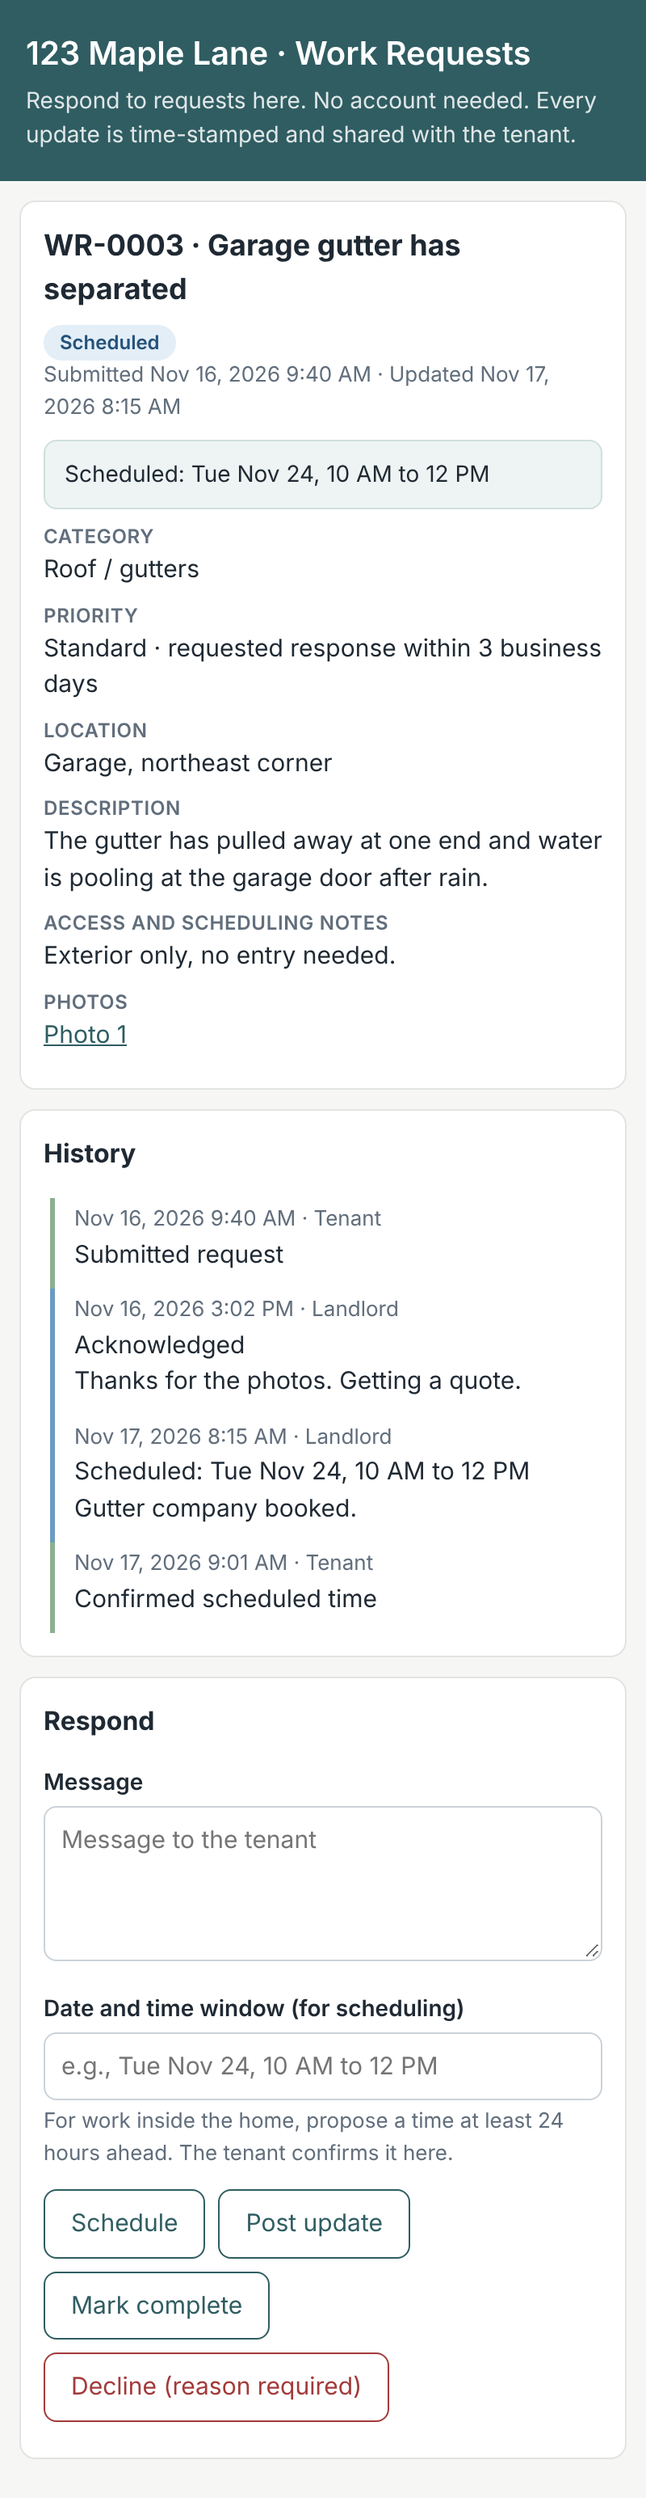
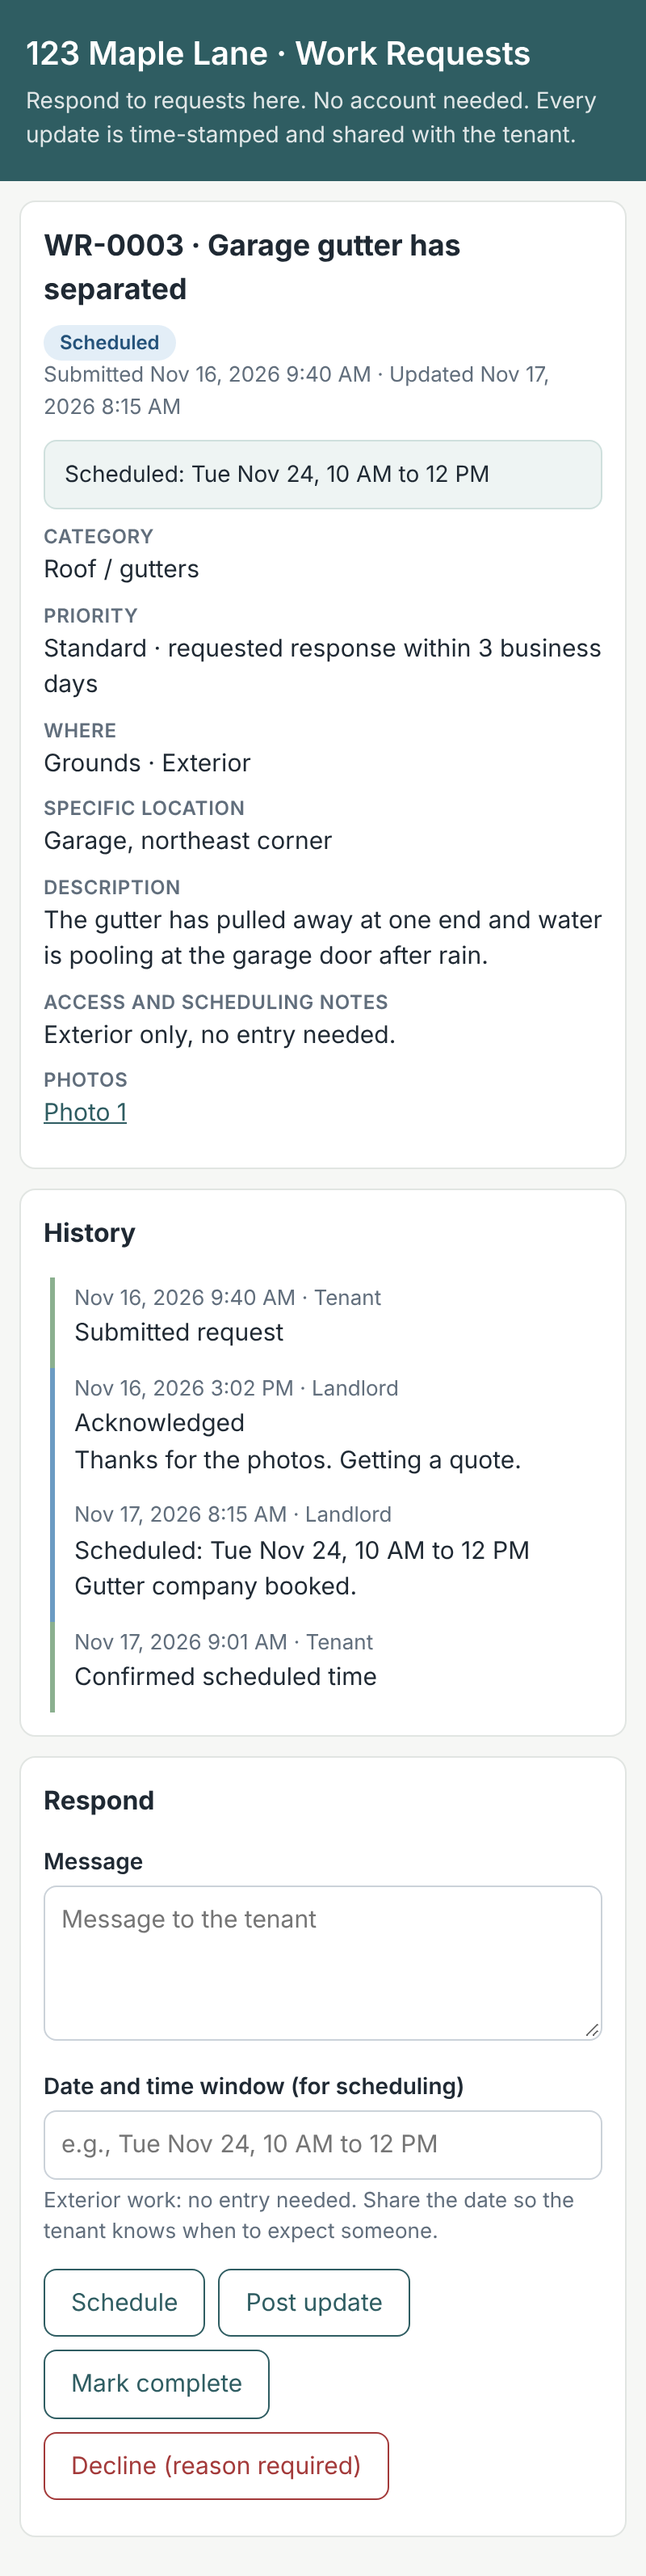
Add building and interior/exterior fields; fix category dropdown
Render form choices on the server so they work without client-side setup. Buildings are configurable on the Config tab. Landlord scheduling guidance adapts to interior or exterior work.

Claude-Session: https://claude.ai/code/session_017VoKnycgN8XbwmDMcNHVKc

diff --git a/Tenant.html b/Tenant.html
@@ -28,18 +28,42 @@
         <h2 style="margin-top:0;font-size:18px">New work request</h2>
         <label for="title">What needs attention?</label>
         <input type="text" id="title" maxlength="120" placeholder="e.g., Garage gutter has come apart">
+        <label>Where</label>
+        <div class="choices">
+          <? for (var b = 0; b < buildings.length; b++) { ?>
+            <label class="choice"><input type="radio" name="building" value="<?= buildings[b] ?>"
+              <?= b === 0 ? 'checked' : '' ?>> <?= buildings[b] ?></label>
+          <? } ?>
+        </div>
+        <div class="choices" style="margin-top:8px">
+          <? for (var a = 0; a < areas.length; a++) { ?>
+            <label class="choice"><input type="radio" name="area" value="<?= areas[a] ?>"
+              <?= a === 0 ? 'checked' : '' ?>> <?= areas[a] ?></label>
+          <? } ?>
+        </div>
+        <div class="help">Interior work needs a visit time agreed at least 24 hours ahead. Exterior work usually needs no entry.</div>
         <label for="category">Category</label>
-        <select id="category"></select>
+        <select id="category">
+          <? for (var c = 0; c < categories.length; c++) { ?>
+            <option value="<?= categories[c] ?>"><?= categories[c] ?></option>
+          <? } ?>
+        </select>
         <label>Priority</label>
-        <div id="priorities"></div>
-        <label for="location">Location</label>
+        <div>
+          <? for (var p = 0; p < priorities.length; p++) {
+               var pr = priorities[p];
+               var time = p === 0 ? responseTimes.urgent : (pr === 'Routine' ? responseTimes.routine : responseTimes.standard); ?>
+            <label class="choice block"><input type="radio" name="priority" value="<?= pr ?>"
+              <?= pr === 'Standard' ? 'checked' : '' ?>> <?= pr ?> · response <?= time ?></label>
+          <? } ?>
+        </div>
+        <label for="location">Specific location</label>
         <input type="text" id="location" maxlength="200" placeholder="e.g., Garage, northeast corner">
         <label for="description">Description</label>
         <textarea id="description" maxlength="4000" placeholder="What is happening, since when, and any safety concerns."></textarea>
         <label for="access">Access and scheduling notes</label>
         <textarea id="access" maxlength="1000" style="min-height:64px"
           placeholder="e.g., Please propose times here; exterior work needs no entry."></textarea>
-        <div class="help">Interior visits are coordinated in the tracker with at least 24 hours' notice.</div>
         <label for="photos">Photos (up to 5)</label>
         <input type="file" id="photos" accept="image/*" multiple>
         <div class="actions">
@@ -60,26 +84,10 @@
   <?!= include('Shared') ?>
   <script>
     var KEY = <?!= JSON.stringify(key).replace(/</g, '\\u003c') ?>;
-    var CATEGORIES = <?!= JSON.stringify(categories).replace(/</g, '\\u003c') ?>;
-    var PRIORITIES = <?!= JSON.stringify(priorities).replace(/</g, '\\u003c') ?>;
-    var RESPONSE = <?!= JSON.stringify(responseTimes).replace(/</g, '\\u003c') ?>;
     var requests = [];
     var filter = 'open';
 
-    function init() {
-      var cat = document.getElementById('category');
-      CATEGORIES.forEach(function (c) { cat.appendChild(el('option', { value: c, text: c })); });
-      var pr = document.getElementById('priorities');
-      PRIORITIES.forEach(function (p, i) {
-        var time = i === 0 ? RESPONSE.urgent : (p === 'Routine' ? RESPONSE.routine : RESPONSE.standard);
-        var id = 'pri' + i;
-        var input = el('input', { type: 'radio', name: 'priority', id: id, value: p });
-        if (p === 'Standard') input.checked = true;
-        pr.appendChild(el('div', { style: 'margin:4px 0' }, [input, ' ',
-          el('label', { for: id, style: 'display:inline;font-weight:400', text: p + ' · response ' + time })]));
-      });
-      load();
-    }
+    function init() { load(); }
 
     function load() {
       call('tenantList', [KEY]).then(function (r) { requests = r; renderList(); })
@@ -107,7 +115,8 @@
             el('strong', { text: r.id + ' · ' + r.title }),
             el('span', { class: statusClass(r.status), text: r.status })
           ]),
-          el('div', { class: 'muted', text: r.category + ' · ' + r.priority.split(' (')[0] +
+          el('div', { class: 'muted', text: [r.building, r.area].filter(Boolean).join(' · ') + (r.building ? ' · ' : '') +
+            r.category + ' · ' + r.priority.split(' (')[0] +
             (r.scheduledFor && r.status === 'Scheduled' ? ' · Scheduled ' + r.scheduledFor : '') +
             ' · Updated ' + r.updated })
         ]));
@@ -159,6 +168,8 @@
           title: document.getElementById('title').value,
           category: document.getElementById('category').value,
           priority: pri ? pri.value : 'Standard',
+          building: (document.querySelector('input[name=building]:checked') || {}).value || '',
+          area: (document.querySelector('input[name=area]:checked') || {}).value || '',
           location: document.getElementById('location').value,
           description: document.getElementById('description').value,
           access: document.getElementById('access').value,
@@ -204,7 +215,8 @@
         el('div', { class: 'muted', text: 'Submitted ' + r.created + ' · Updated ' + r.updated }),
         r.scheduledFor ? el('div', { class: 'notice', style: 'margin-top:10px', text: 'Scheduled: ' + r.scheduledFor }) : null,
         field('Category', r.category), field('Priority', r.priority + ' · requested response ' + r.responseTime),
-        field('Location', r.location), field('Description', r.description, true),
+        field('Where', [r.building, r.area].filter(Boolean).join(' · ')),
+        field('Specific location', r.location), field('Description', r.description, true),
         field('Access and scheduling notes', r.access, true), photosBlock(r.photos)
       ]));
       d.appendChild(el('div', { class: 'card' }, [el('h3', { style: 'margin-top:0;font-size:16px', text: 'History' }), timeline(r.log)]));

diff --git a/Landlord.html b/Landlord.html
@@ -38,7 +38,8 @@
             el('a', { href: r.link, text: r.id + ' · ' + r.title }),
             el('span', { class: statusClass(r.status), text: r.status })
           ]),
-          el('div', { class: 'muted', text: r.category + ' · ' + r.priority.split(' (')[0] + ' · Updated ' + r.updated })
+          el('div', { class: 'muted', text: [r.building, r.area].filter(Boolean).join(' · ') + (r.building ? ' · ' : '') +
+            r.category + ' · ' + r.priority.split(' (')[0] + ' · Updated ' + r.updated })
         ]));
       });
     }
@@ -53,7 +54,8 @@
         el('div', { class: 'muted', text: 'Submitted ' + r.created + ' · Updated ' + r.updated }),
         r.scheduledFor ? el('div', { class: 'notice', style: 'margin-top:10px', text: 'Scheduled: ' + r.scheduledFor }) : null,
         field('Category', r.category), field('Priority', r.priority + ' · requested response ' + r.responseTime),
-        field('Location', r.location), field('Description', r.description, true),
+        field('Where', [r.building, r.area].filter(Boolean).join(' · ')),
+        field('Specific location', r.location), field('Description', r.description, true),
         field('Access and scheduling notes', r.access, true), photosBlock(r.photos)
       ]));
       app.appendChild(el('div', { class: 'card' }, [el('h3', { style: 'margin-top:0;font-size:16px', text: 'History' }), timeline(r.log)]));
@@ -80,7 +82,9 @@
         el('h3', { style: 'margin-top:0;font-size:16px', text: 'Respond' }),
         el('label', { text: 'Message' }), note,
         el('label', { text: 'Date and time window (for scheduling)' }), when,
-        el('div', { class: 'help', text: 'For work inside the home, propose a time at least 24 hours ahead. The tenant confirms it here.' }),
+        el('div', { class: 'help', text: r.area === 'Exterior'
+          ? 'Exterior work: no entry needed. Share the date so the tenant knows when to expect someone.'
+          : 'Interior work: propose a time at least 24 hours ahead. The tenant confirms it here.' }),
         el('div', { class: 'actions' }, [
           r.status === 'Submitted' ? el('button', { onclick: act('acknowledge'), text: 'Acknowledge' }) : null,
           el('button', { class: 'secondary', onclick: act('schedule', { when: true }), text: 'Schedule' }),

diff --git a/Styles.html b/Styles.html
@@ -31,6 +31,12 @@
   input[type=text], select, textarea { width: 100%; font: inherit; padding: 9px 10px; border: 1px solid #cbd2d9;
     border-radius: 8px; background: #fff; color: var(--ink); }
   textarea { min-height: 96px; resize: vertical; }
+  .choices { display: flex; flex-wrap: wrap; gap: 8px; }
+  .choice { display: inline-flex; align-items: center; gap: 6px; font-weight: 400; margin: 0;
+    padding: 8px 12px; border: 1px solid #cbd2d9; border-radius: 8px; background: #fff; cursor: pointer; }
+  .choice.block { display: flex; margin: 6px 0; }
+  .choice:has(input:checked) { border-color: var(--accent); background: #eef4f3; }
+  select { appearance: auto; -webkit-appearance: menulist; cursor: pointer; }
   .help { font-size: 13px; color: var(--muted); margin-top: 4px; }
   .list-item { cursor: pointer; }
   .list-item:hover { border-color: var(--accent); }

diff --git a/docs/UX-NOTES.md b/docs/UX-NOTES.md
@@ -1,0 +1,12 @@
+# UX Notes from First-Time Setup
+
+Observations from setting the tracker up as a first-time Apps Script user, and how each was addressed.
+
+| # | Observation | Status |
+| --- | --- | --- |
+| 1 | It wasn't clear where the Config tab is. It lives at the bottom of the Sheet, not in the script editor. | Addressed: the setup guide now explains both places; setup opens the Config tab automatically |
+| 2 | Running a function takes two steps in the editor: choose it from a dropdown, then click Run. Choosing the option should be enough. | Addressed: a **Work Requests** menu in the Sheet runs each action in one click |
+| 3 | Links appeared only in the execution log, which is hard to find. | Addressed: **Show my links** opens a pop-up with Copy and Open buttons |
+| 4 | The Category dropdown could not be opened or used. | Addressed: categories and all choices are now written into the page by the server instead of built in the browser |
+| 5 | Scheduling needs to know whether work is inside or outside. | Addressed: required **Interior / Exterior** choice; the landlord page adjusts its scheduling guidance |
+| 6 | Requests need to say which building. | Addressed: required **Main house / Cottage / Grounds** choice, configurable on the Config tab (BUILDINGS) |
